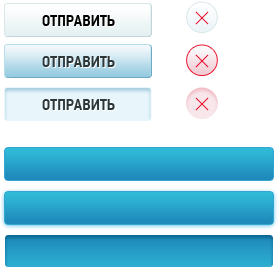
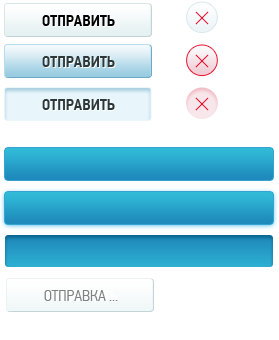
24.08.2012 конец рабочего дня

diff --git a/wp-content/themes/bitarov/fund-header.php b/wp-content/themes/bitarov/fund-header.php
@@ -25,7 +25,7 @@ echo <<<HTML
         <div class='event-bottom-img'></div>
 
         <div class='wrap'>
-        <div class='overLayer blago' id='messageFundShadow' style='display:none' onclick='messageFundClose()'></div>
+        <div class='overLayer blago' id='feedbackShadow' style='display:none' onclick='feedbackClose()'></div>
             <div class='fond-header'>
                 <div class='content'>
                 Благотворительная деятельность фонда «Кто, если не Я?» направлена на оказание помощи детям, находящихся в трудной жизненной ситуации, создание благоприятных условий для образования и развития детей-сирот в детских домах и повышение квалификации специалистов, работающих с детьми.
@@ -33,31 +33,43 @@ echo <<<HTML
             </div>
             <div class='fond-body'>
                 <!-- начало сообщения -->
-                <div class='wrp-send-message'>
-                    <div class='send_message'>
-                        <img src='wp-content/themes/bitarov/images/ico/send_message.png' width='25' height='19' alt='' />
-                        <a href='#' onclick='return messageFundOpen()'>Оставить обращение</a><span>&darr;</span>
-                        <div class="wrp-window-comment" style="display:block" id='messageFundBox'>
+                <div class="wrp-send-message">
+                    <div class="send_message">
+                        <div class='fund-animation'>
+                          <div id='feedbacklink'>
+                            <img width="25" height="19" alt="" src="wp-content/themes/bitarov/images/ico/send_message.png">
+                            <a href="#" onclick='return feedbackOpen()'>Оставить обращение</a><span>&darr;</span>
+                          </div>
+                          <span class='send_ok' id='feedbackmsg'>Ваше обращение успешно отправлено</span>
+                        </div>
+                        <div class="wrp-window-comment" style="display:none" id='feedbackBox'>
                             <div class="window-comment">
-                                <a class="exit" href="#" onclick='return messageFundClose()'></a>
-                            <form>
+                                <a class="exit" href="#" onclick='return feedbackClose()'></a>
+                            <form name='feedbackform' onsubmit='return feedbackSend()'>
                             <div class="msg">
-                                <textarea name="msg" placeholder='Ваше обращение' onfocus="this.className='active'" onblur="this.className='idle'"></textarea>
+                                <textarea name="message" placeholder='Ваше обращение' onfocus="this.className='active'" onblur="this.className='idle'"></textarea>
                             </div>
                             <div class="email">
                                 <input type="text" name="email" placeholder='Ваш e-mail' onfocus="this.className='active'" onblur="this.className='idle'">
                             </div>
                             <div class="name">
-                                <input type="text" name="name" placeholder='Ваше имя' onfocus="this.className='active'" onblur="this.className='idle'">
+                                <input type="text" name="_name" placeholder='Ваше имя' onfocus="this.className='active'" onblur="this.className='idle'">
                             </div>
                             <div class="phone">
                                 <input type="text" name="phone" placeholder='Ваш телефон' onfocus="this.className='active'" onblur="this.className='idle'">
                             </div>
                             <div class="clear"></div>
+                            <div id="feedback-errmsg"><strong>Обнаружены ошибки:</strong></div>
+                            <ol id="feedback-errors">
+                              <li>Адрес e-mail указан неверно</li>
+                              <li>Пожалуйста укажите номер телефона</li>
+                              <li>Пожалуйста, идите нафиг</li>
+                            </ol>
                             <div class="send">
-                                <input type="submit" value="">
+                                <input type="submit" name="sendbtn" value="">
+                                <input type='hidden' name='form' value='contacts'>
                             </div>
-                            <img src='wp-content/themes/bitarov/images/css/feedback-loader.gif' style='position:absolute; left:470px; top:190px'>
+                            <img id='msg-loader' src='wp-content/themes/bitarov/images/css/feedback-loader.gif' alt='' />
                             </form>
                             </div>
                         </div>

diff --git a/wp-content/themes/bitarov/contacts.php b/wp-content/themes/bitarov/contacts.php
@@ -41,6 +41,7 @@ HTML;
 
 ?>
         <div class='wrap'>
+        <div class='overLayer contacts' id='feedbackShadow' style='display:none' onclick='feedbackClose()'></div>
             <div class='contacts'>
                 <div class='wrp-karta'>
                     <div class='karta'>
@@ -60,30 +61,36 @@ the_content();
                 <div class="wrp-send-message">
                     <div class="send_message">
                         <img width="25" height="19" alt="" src="wp-content/themes/bitarov/images/ico/send_message.png">
-                        <a href="">Оставить обращение</a>
-                        <span>↓</span>
-                        <span class='send_ok' style='display:block;'>Ваше обращение успешно отправлено</span>
-                        <div class="wrp-window-comment" style="display:block" id='messageFundBox'>
+                        <a href="#" onclick='return feedbackOpen()'>Оставить обращение</a><span>&darr;</span>
+                        <div class='send_ok' id='send_ok'>Ваше обращение успешно отправлено</div>
+                        <div class="wrp-window-comment" style="display:none" id='feedbackBox'>
                             <div class="window-comment">
-                                <a class="exit" href="#" onclick='return messageFundClose()'></a>
-                            <form>
+                                <a class="exit" href="#" onclick='return feedbackClose()'></a>
+                            <form name='feedbackform' onsubmit='return feedbackSend()'>
                             <div class="msg">
-                                <textarea name="msg" placeholder='Ваше обращение' onfocus="this.className='active'" onblur="this.className='idle'"></textarea>
+                                <textarea name="message" placeholder='Ваше обращение' onfocus="this.className='active'" onblur="this.className='idle'"></textarea>
                             </div>
                             <div class="email">
                                 <input type="text" name="email" placeholder='Ваш e-mail' onfocus="this.className='active'" onblur="this.className='idle'">
                             </div>
                             <div class="name">
-                                <input type="text" name="name" placeholder='Ваше имя' onfocus="this.className='active'" onblur="this.className='idle'">
+                                <input type="text" name="_name" placeholder='Ваше имя' onfocus="this.className='active'" onblur="this.className='idle'">
                             </div>
                             <div class="phone">
                                 <input type="text" name="phone" placeholder='Ваш телефон' onfocus="this.className='active'" onblur="this.className='idle'">
                             </div>
                             <div class="clear"></div>
+                            <div id="feedback-errmsg"><strong>Обнаружены ошибки:</strong></div>
+                            <ol id="feedback-errors">
+                              <li>Адрес e-mail указан неверно</li>
+                              <li>Пожалуйста укажите номер телефона</li>
+                              <li>Пожалуйста, идите нафиг</li>
+                            </ol>
                             <div class="send">
                                 <input type="submit" value="">
+                                <input type='hidden' name='form' value='contacts'>
                             </div>
-                            <img src='wp-content/themes/bitarov/images/css/feedback-loader.gif' style='position:absolute; left:470px; top:190px'>
+                            <img id='msg-loader' src='wp-content/themes/bitarov/images/css/feedback-loader.gif' alt='' />
                             </form>
                             </div>
                         </div>

diff --git a/wp-content/themes/bitarov/json.php b/wp-content/themes/bitarov/json.php
@@ -61,6 +61,7 @@ break;
 
 case 'feedback':
   if (!chkpost('form,message,name,phone,email')) json_die('Требуются POST-параметры form, message, name, phone, email');
+  sleep(3);
   extract(ep('form,message,name,phone,email'));
   if ($form=='fund') $form = 'благотворительный фонд';
   elseif ($form=='contacts') $form = 'контакты';
@@ -71,11 +72,15 @@ case 'feedback':
   elseif ($len<10) $errors[] = 'Текст сообщения не должен быть короче 10 символов';
   elseif ($len>3000) $errors[] = 'Текст сообщения не должен быть длинее 3000 символов';
   $message = correct_eol($message);
+  $len = strlen($name);
+  if ($len<1) $errors[] = 'Не указано имя';
+  elseif ($len<2) $errors[] = 'Имя указано неверно';
+  elseif ($len>40) $errors[] = 'Длина имени не должна превышать 40 символов';
   if ($email and !ismail($email)) $errors[] = 'Адрес e-mail указан неверно';
   if (!$phone) $errors[] = 'Пожалуйста, укажите номер телефона для связи с Вами';
   elseif (!chklen(preg_replace('/[^0-9]+/', '', $phone), 6, 20)) $errors[] = 'Номер телефона указан неверно';
   else $phone = ($phone[0]=='+' ? '+' : '') . trim(preg_replace('/[^0-9]+/', ' ', $phone));
-  if ($phone) die(json_encode(array('err'=>$errors)));
+  if ($errors) die(json_encode(array('err'=>$errors)));
   $letter  = "Сообщение отправлено со страницы $form\n";
   $letter .= "Телефон: $phone\n";
   if ($email) $letter .= "E-mail: $email\n";
